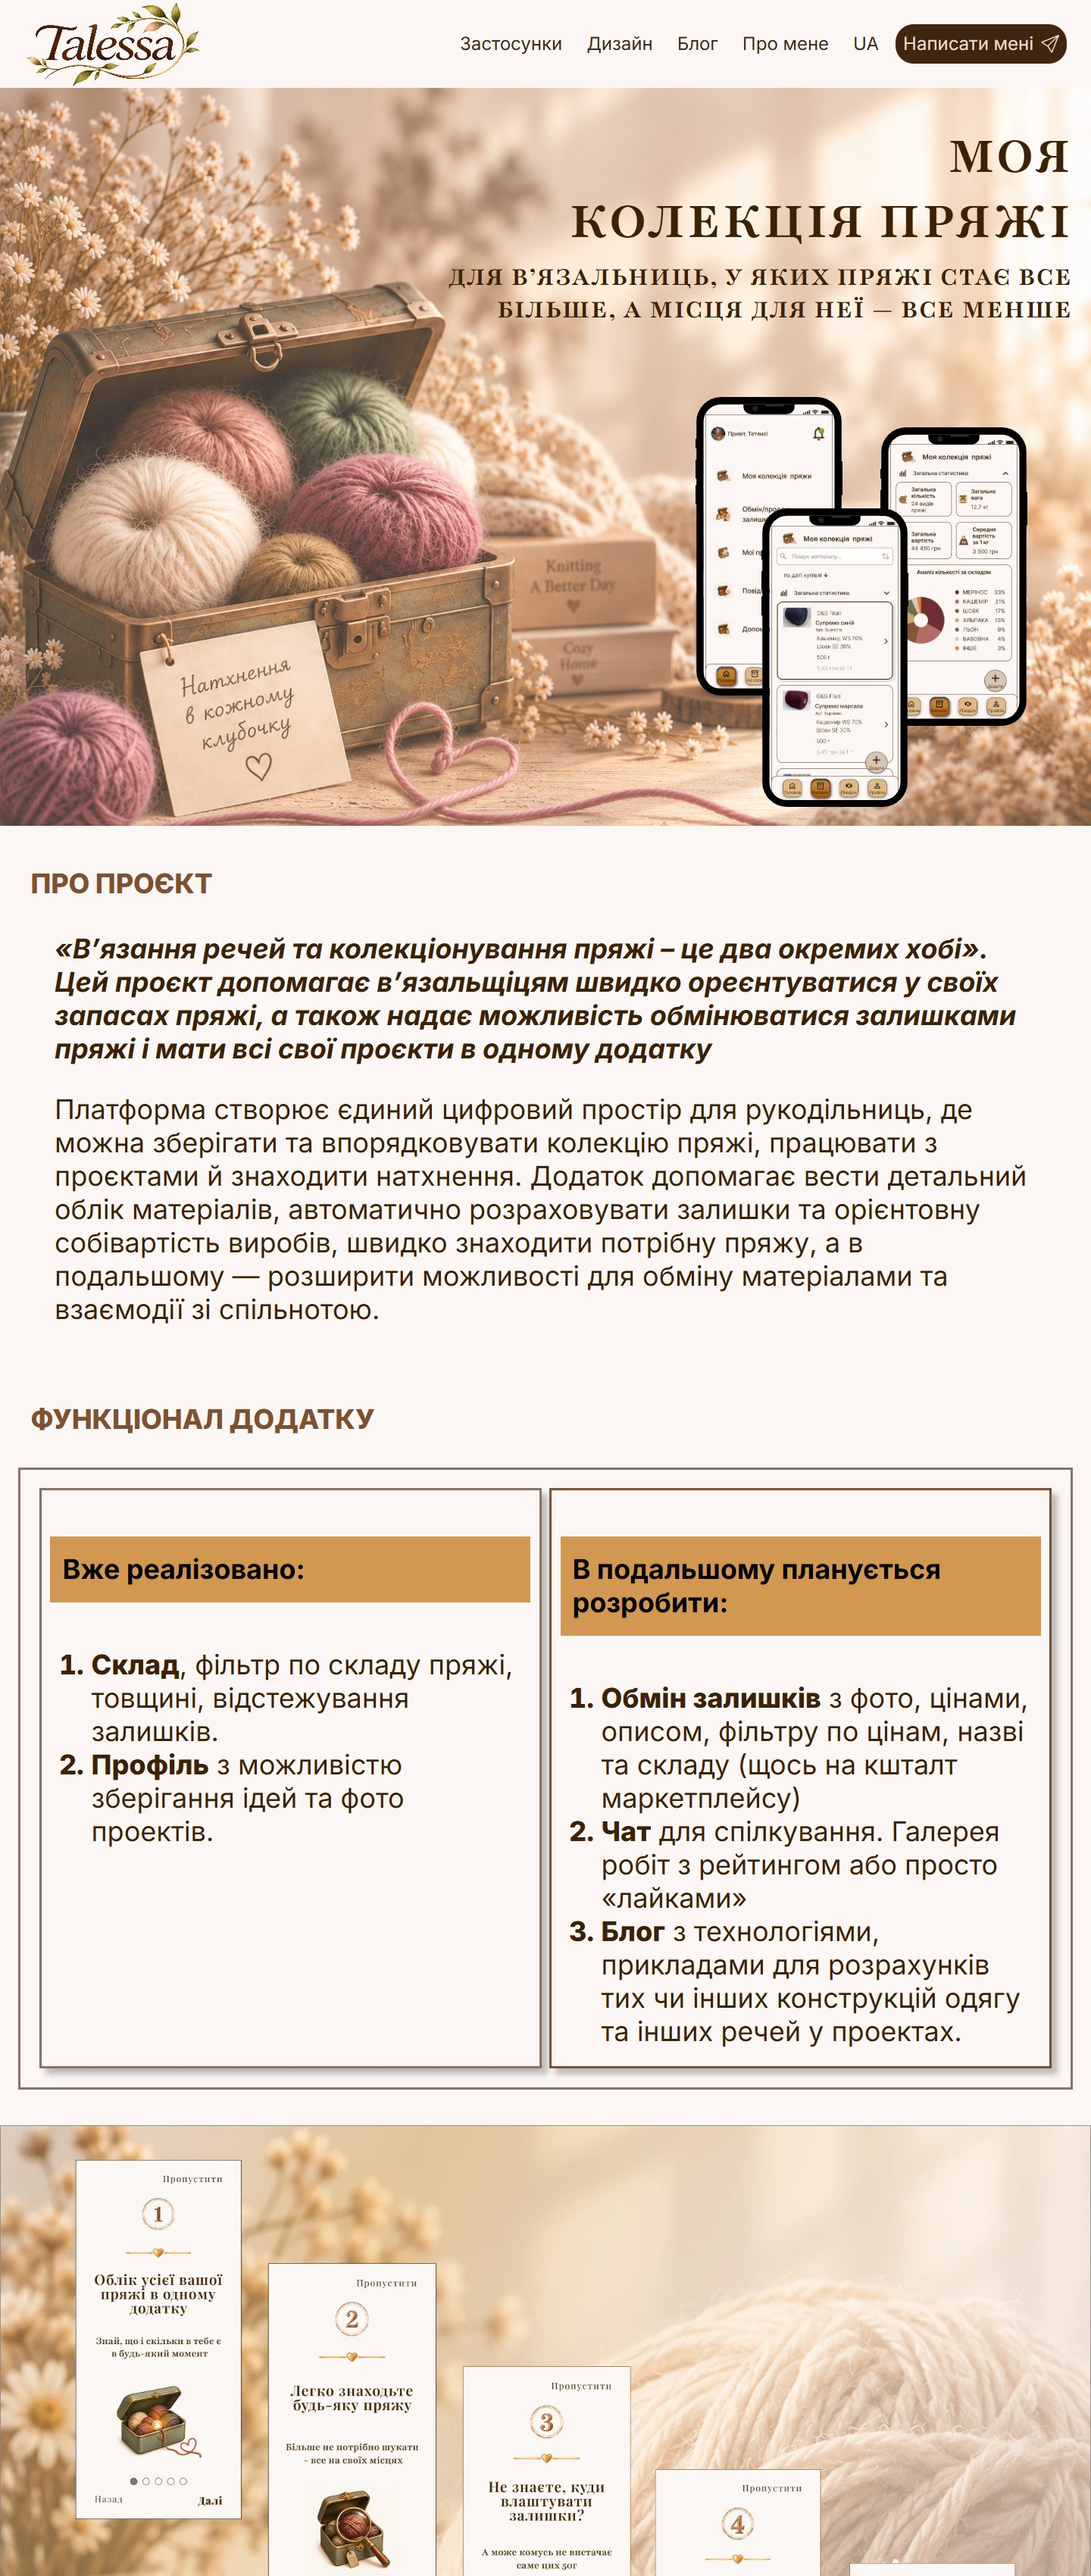
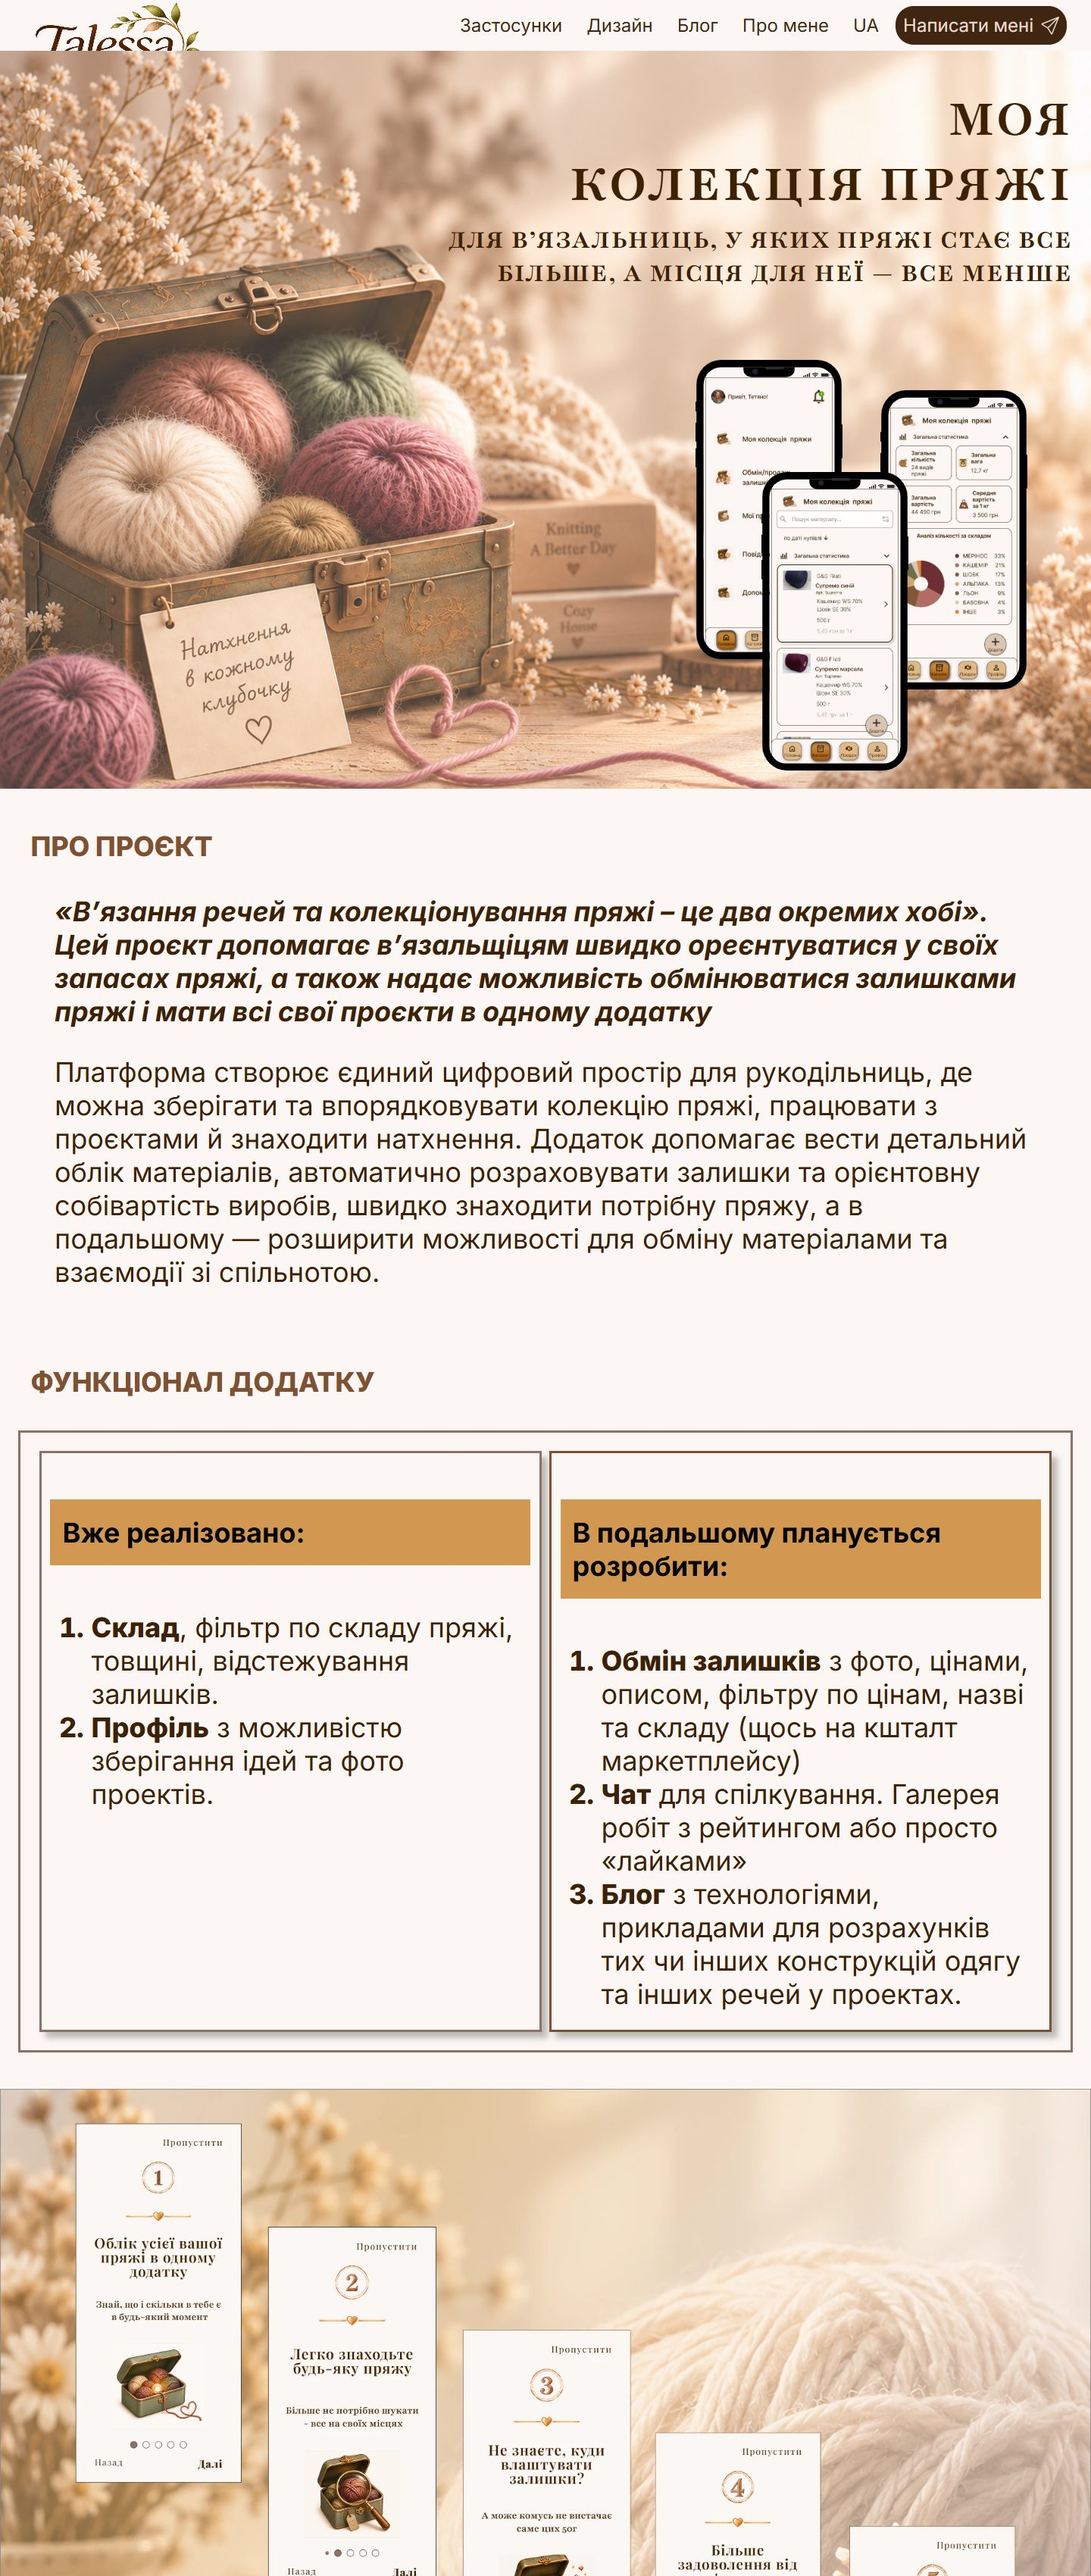
Header: top and bottom padding 8px, header hugs the menu row (67px) as in Figma; refresh README screenshots

diff --git a/src/App.css b/src/App.css
@@ -15,8 +15,7 @@
   display: flex;
   align-items: center;
   justify-content: flex-end;
-  padding: 16px 32px;
-  min-height: 116px;
+  padding: 8px 32px; /* top / bottom 8, sides 32, as in Figma; the header hugs the 51px menu row (67px) */
 }
 .logo {
   position: absolute;
